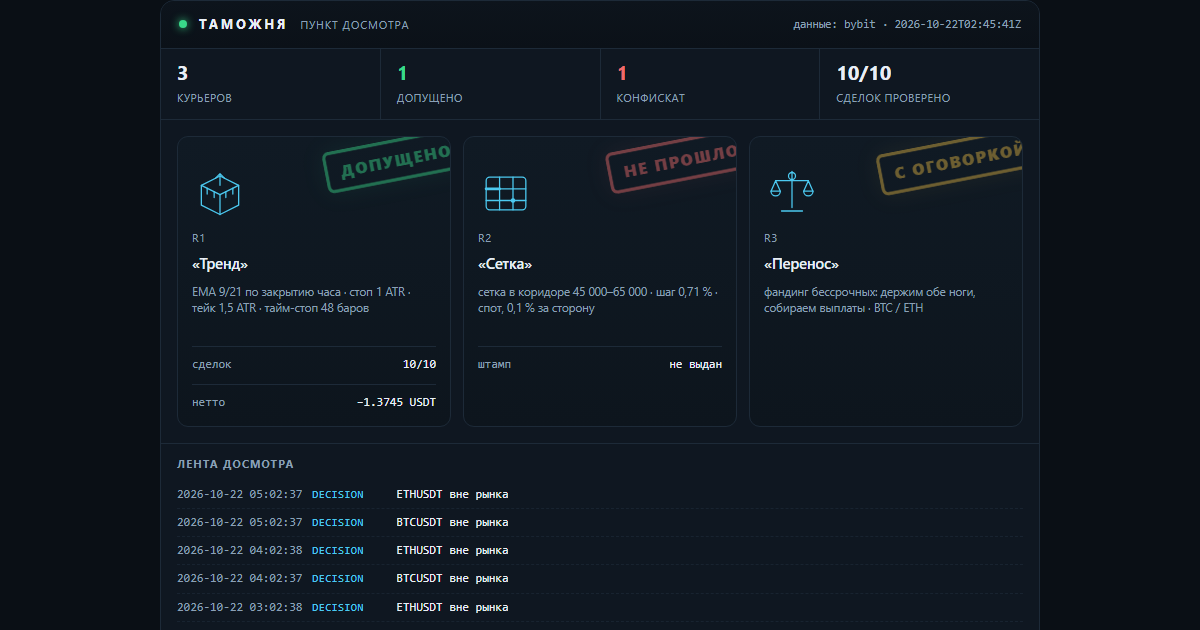
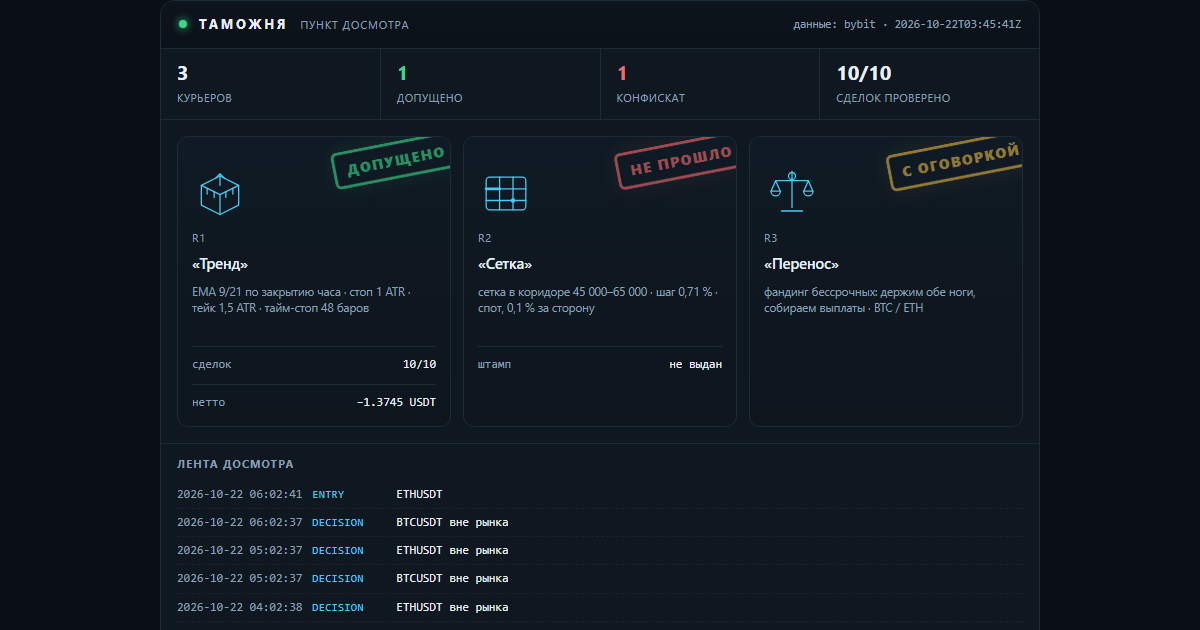
lab: таможня — свежие числа досмотра

diff --git a/docs/customs.html b/docs/customs.html
@@ -16,7 +16,7 @@
   <h1><a href="index.html">Gramwright Lab</a></h1>
   <p>Журнал проверки торговых гипотез: что проверяли, что вышло по факту, сколько съели издержки. Числа берутся из журнала стенда. Не инвестиционная рекомендация.</p>
 </header>
-<h1>Таможня</h1><p class="intro">Пункт досмотра заявленных результатов. Стратегии приезжают с грузом обещаний, и каждая проходит проверку по публичным данным биржи: цены существуют, комиссии по тарифу, нетто сходится. Что прошло — получает штамп. Что не прошло — в конфискат, с причиной. Штамп означает «записи подлинные», а не «стратегия прибыльна».</p><p><img src="img/customs.png" alt="Терминал досмотра: три курьера, штампы, лента событий" style="width:100%;height:auto;border:1px solid var(--line);border-radius:10px"></p><p class="c-note">Сверху — тот же терминал, что собирается из журналов: счётчики, эмблемы курьеров, штампы и лента последних событий. Ниже — то же самое текстом, чтобы читалось с телефона и индексировалось поиском.</p><article><h2>R1 «Тренд» <span class="verdict">— <span class="c-ok">допущено</span></span></h2><p><strong>Правило:</strong> EMA 9/21 по закрытию часа · стоп 1 ATR · тейк 1,5 ATR · тайм-стоп 48 баров</p><p><strong>Декларация:</strong> Заявлено до прогона: держать 30 сделок, лимит нотионала 10 % от счёта, стоп дня −1 %. Прибыль не заявлялась — это важно: курьер не обещал доход.</p><p><strong>Проверено по публичным свечам, без ключей:</strong> 10 из 10 сделок. Сумма нетто −1.3745 USDT.</p><ul class="c-chk"><li class="y">BTCUSDT: нетто −0.8746 USDT · комиссии 0.0901 · проверено · с поправкой</li><li class="y">BTCUSDT: нетто −0.5441 USDT · комиссии 0.0896 · проверено</li><li class="y">ETHUSDT: нетто −0.2253 USDT · комиссии 0.0266 · проверено</li><li class="y">ETHUSDT: нетто −0.1513 USDT · комиссии 0.0265 · проверено</li><li class="y">ETHUSDT: нетто +0.1984 USDT · комиссии 0.0262 · проверено</li><li class="y">ETHUSDT: нетто +0.1617 USDT · комиссии 0.0260 · проверено</li><li class="y">ETHUSDT: нетто +0.2645 USDT · комиссии 0.0263 · проверено</li><li class="y">BTCUSDT: нетто +0.6246 USDT · комиссии 0.0897 · проверено</li><li class="y">BTCUSDT: нетто −0.5881 USDT · комиссии 0.0910 · проверено</li><li class="y">ETHUSDT: нетто −0.2403 USDT · комиссии 0.0270 · проверено</li></ul><p class="tags">журнал sha256 33e7f63eb76d9b32… · проверяльщик verify-1</p><p class="c-note">Штамп означает: записи подлинные, а не что стратегия прибыльна. Курьер в минусе, и минус тоже стоит на штампе — иначе это была бы не проверка, а реклама.</p><p class="tags">источник: verify-report.json</p></article><article><h2>R2 «Сетка» <span class="verdict">— <span class="c-bad">не прошло</span></span></h2><p><strong>Правило:</strong> сетка в коридоре 45 000–65 000 · шаг 0,71 % · спот, 0,1 % за сторону</p><p><strong>Декларация:</strong> Заявлено: «44 % урожая уходит бирже в виде комиссий». Кроме того — перевес над простым владением монетой.</p><p><strong>Что сошлось:</strong></p><ul class="c-chk"><li class="y">сами числа пересчитаны и воспроизводятся: коридор 45–65k был активен 23 % всей истории и 28 % последних двух лет</li></ul><p><strong>Что не сошлось:</strong></p><ul class="c-chk"><li class="n">44 % не подтвердилось: при шаге 0,71 % и тарифе 0,1 % комиссия съедает 28,3 % шага. Чтобы получить 44 %, нужен шаг 0,45 % — это около 80 уровней, а не 50</li><li class="n">от урожая доля комиссий 85,5 % за всю историю и 49,6 % за последние два года — тоже не 44 %</li><li class="n">перевес над владением посчитан на тарифе 0,055 %: при нём +1,32 п. п., на розничном 0,1 % — −0,72 п. п. То есть перевес исчезает</li><li class="n">семилетний тест стартовал в сентябре 2019 при биткоине около 10 000 — ниже коридора. Он говорит, что фиксированный коридор не подходит для периода, а не что сетка отстаёт</li></ul><p class="tags">источник: lab_grid.py, пересчёт 17.10.2026</p></article><article><h2>R3 «Перенос» <span class="verdict">— <span class="c-warn">с оговоркой</span></span></h2><p><strong>Правило:</strong> фандинг бессрочных: держим обе ноги, собираем выплаты · BTC / ETH</p><p><strong>Декларация:</strong> Заявлено: около 11,9 % в год от выплат фандинга при просадке выплатной кривой меньше 2 %.</p><p><strong>Что сошлось:</strong></p><ul class="c-chk"><li class="y">выплаты взяты из публичной истории биржи, ключей не нужно: BTC — 7 190 выплат с 25.03.2020, ETH — 6 561 с 21.10.2020</li><li class="y">сумма сходится: +83,4 % и +83,2 % за 6,6 и 6,0 года — те самые ~11,9 % в год</li><li class="y">худшая просадка выплатной кривой: −1,65 % и −1,97 %</li></ul><p><strong>Что не сошлось:</strong></p><ul class="c-chk"><li class="n">оговорка 1: премию сжали — 2021 год дал +38,3 %, 2026 — +1,96 %. Прошлое не повторяется</li><li class="n">оговорка 2: вход-выход стоит около 0,31 %, капитала нужно 1,2 от нотионала, текущий базис −0,082 % против входа</li><li class="n">оговорка 3: риск площадки. История FTX в этой же таблице выглядела так же прилично</li></ul><p class="tags">источник: публичная история фандинга Bybit, замер 17.10.2026</p></article><div class="c-conf"><h3>Конфискат</h3><p><strong>«Сетка»: заявленные 44 % комиссий не подтвердились.</strong> Досмотр показал 28,3 % от шага и 85,5 % от урожая — цифра хуже заявленной по форме, но лучше по смыслу: сетку убивает не размер шага, а то, что урожай почти весь уходит в комиссии. Это и вышло в выпуск — с поправкой, а не с красивой цифрой.</p></div><p class="c-note">Пломба: <code>2026-10-22T02:45:41Z</code> · нотариус FreeTSA · Oct 22 02:45:41 2026 GMT · подпись подтверждена. Манифест скрепляет отчёт проверки, журнал сделок и декларации курьеров: подменишь любую цифру — пломба перестанет сходиться.</p><p class="c-note">Досмотр идёт по публичным минутным свечам и публичной истории фандинга — ключей у проверяющего нет, и он может повторить проверку сам.</p><p class="c-note">Контент образовательный, не является инвестиционной рекомендацией. Торговля связана с риском потери капитала.</p>
+<h1>Таможня</h1><p class="intro">Пункт досмотра заявленных результатов. Стратегии приезжают с грузом обещаний, и каждая проходит проверку по публичным данным биржи: цены существуют, комиссии по тарифу, нетто сходится. Что прошло — получает штамп. Что не прошло — в конфискат, с причиной. Штамп означает «записи подлинные», а не «стратегия прибыльна».</p><p><img src="img/customs.png" alt="Терминал досмотра: три курьера, штампы, лента событий" style="width:100%;height:auto;border:1px solid var(--line);border-radius:10px"></p><p class="c-note">Сверху — тот же терминал, что собирается из журналов: счётчики, эмблемы курьеров, штампы и лента последних событий. Ниже — то же самое текстом, чтобы читалось с телефона и индексировалось поиском.</p><article><h2>R1 «Тренд» <span class="verdict">— <span class="c-ok">допущено</span></span></h2><p><strong>Правило:</strong> EMA 9/21 по закрытию часа · стоп 1 ATR · тейк 1,5 ATR · тайм-стоп 48 баров</p><p><strong>Декларация:</strong> Заявлено до прогона: держать 30 сделок, лимит нотионала 10 % от счёта, стоп дня −1 %. Прибыль не заявлялась — это важно: курьер не обещал доход.</p><p><strong>Проверено по публичным свечам, без ключей:</strong> 10 из 10 сделок. Сумма нетто −1.3745 USDT.</p><ul class="c-chk"><li class="y">BTCUSDT: нетто −0.8746 USDT · комиссии 0.0901 · проверено · с поправкой</li><li class="y">BTCUSDT: нетто −0.5441 USDT · комиссии 0.0896 · проверено</li><li class="y">ETHUSDT: нетто −0.2253 USDT · комиссии 0.0266 · проверено</li><li class="y">ETHUSDT: нетто −0.1513 USDT · комиссии 0.0265 · проверено</li><li class="y">ETHUSDT: нетто +0.1984 USDT · комиссии 0.0262 · проверено</li><li class="y">ETHUSDT: нетто +0.1617 USDT · комиссии 0.0260 · проверено</li><li class="y">ETHUSDT: нетто +0.2645 USDT · комиссии 0.0263 · проверено</li><li class="y">BTCUSDT: нетто +0.6246 USDT · комиссии 0.0897 · проверено</li><li class="y">BTCUSDT: нетто −0.5881 USDT · комиссии 0.0910 · проверено</li><li class="y">ETHUSDT: нетто −0.2403 USDT · комиссии 0.0270 · проверено</li></ul><p class="tags">журнал sha256 efbf9b018fbfd67d… · проверяльщик verify-1</p><p class="c-note">Штамп означает: записи подлинные, а не что стратегия прибыльна. Курьер в минусе, и минус тоже стоит на штампе — иначе это была бы не проверка, а реклама.</p><p class="tags">источник: verify-report.json</p></article><article><h2>R2 «Сетка» <span class="verdict">— <span class="c-bad">не прошло</span></span></h2><p><strong>Правило:</strong> сетка в коридоре 45 000–65 000 · шаг 0,71 % · спот, 0,1 % за сторону</p><p><strong>Декларация:</strong> Заявлено: «44 % урожая уходит бирже в виде комиссий». Кроме того — перевес над простым владением монетой.</p><p><strong>Что сошлось:</strong></p><ul class="c-chk"><li class="y">сами числа пересчитаны и воспроизводятся: коридор 45–65k был активен 23 % всей истории и 28 % последних двух лет</li></ul><p><strong>Что не сошлось:</strong></p><ul class="c-chk"><li class="n">44 % не подтвердилось: при шаге 0,71 % и тарифе 0,1 % комиссия съедает 28,3 % шага. Чтобы получить 44 %, нужен шаг 0,45 % — это около 80 уровней, а не 50</li><li class="n">от урожая доля комиссий 85,5 % за всю историю и 49,6 % за последние два года — тоже не 44 %</li><li class="n">перевес над владением посчитан на тарифе 0,055 %: при нём +1,32 п. п., на розничном 0,1 % — −0,72 п. п. То есть перевес исчезает</li><li class="n">семилетний тест стартовал в сентябре 2019 при биткоине около 10 000 — ниже коридора. Он говорит, что фиксированный коридор не подходит для периода, а не что сетка отстаёт</li></ul><p class="tags">источник: lab_grid.py, пересчёт 17.10.2026</p></article><article><h2>R3 «Перенос» <span class="verdict">— <span class="c-warn">с оговоркой</span></span></h2><p><strong>Правило:</strong> фандинг бессрочных: держим обе ноги, собираем выплаты · BTC / ETH</p><p><strong>Декларация:</strong> Заявлено: около 11,9 % в год от выплат фандинга при просадке выплатной кривой меньше 2 %.</p><p><strong>Что сошлось:</strong></p><ul class="c-chk"><li class="y">выплаты взяты из публичной истории биржи, ключей не нужно: BTC — 7 190 выплат с 25.03.2020, ETH — 6 561 с 21.10.2020</li><li class="y">сумма сходится: +83,4 % и +83,2 % за 6,6 и 6,0 года — те самые ~11,9 % в год</li><li class="y">худшая просадка выплатной кривой: −1,65 % и −1,97 %</li></ul><p><strong>Что не сошлось:</strong></p><ul class="c-chk"><li class="n">оговорка 1: премию сжали — 2021 год дал +38,3 %, 2026 — +1,96 %. Прошлое не повторяется</li><li class="n">оговорка 2: вход-выход стоит около 0,31 %, капитала нужно 1,2 от нотионала, текущий базис −0,082 % против входа</li><li class="n">оговорка 3: риск площадки. История FTX в этой же таблице выглядела так же прилично</li></ul><p class="tags">источник: публичная история фандинга Bybit, замер 17.10.2026</p></article><div class="c-conf"><h3>Конфискат</h3><p><strong>«Сетка»: заявленные 44 % комиссий не подтвердились.</strong> Досмотр показал 28,3 % от шага и 85,5 % от урожая — цифра хуже заявленной по форме, но лучше по смыслу: сетку убивает не размер шага, а то, что урожай почти весь уходит в комиссии. Это и вышло в выпуск — с поправкой, а не с красивой цифрой.</p></div><p class="c-note">Пломба: <code>2026-10-22T03:45:41Z</code> · нотариус FreeTSA · Oct 22 03:45:41 2026 GMT · подпись подтверждена. Манифест скрепляет отчёт проверки, журнал сделок и декларации курьеров: подменишь любую цифру — пломба перестанет сходиться.</p><p class="c-note">Досмотр идёт по публичным минутным свечам и публичной истории фандинга — ключей у проверяющего нет, и он может повторить проверку сам.</p><p class="c-note">Контент образовательный, не является инвестиционной рекомендацией. Торговля связана с риском потери капитала.</p>
 <footer class="site">
   Код стенда и аудитора: <a href="https://github.com/XSlaidx/truth-engine">XSlaidx/truth-engine</a>
   &middot; <a href="graveyard.html">кладбище правил</a>
